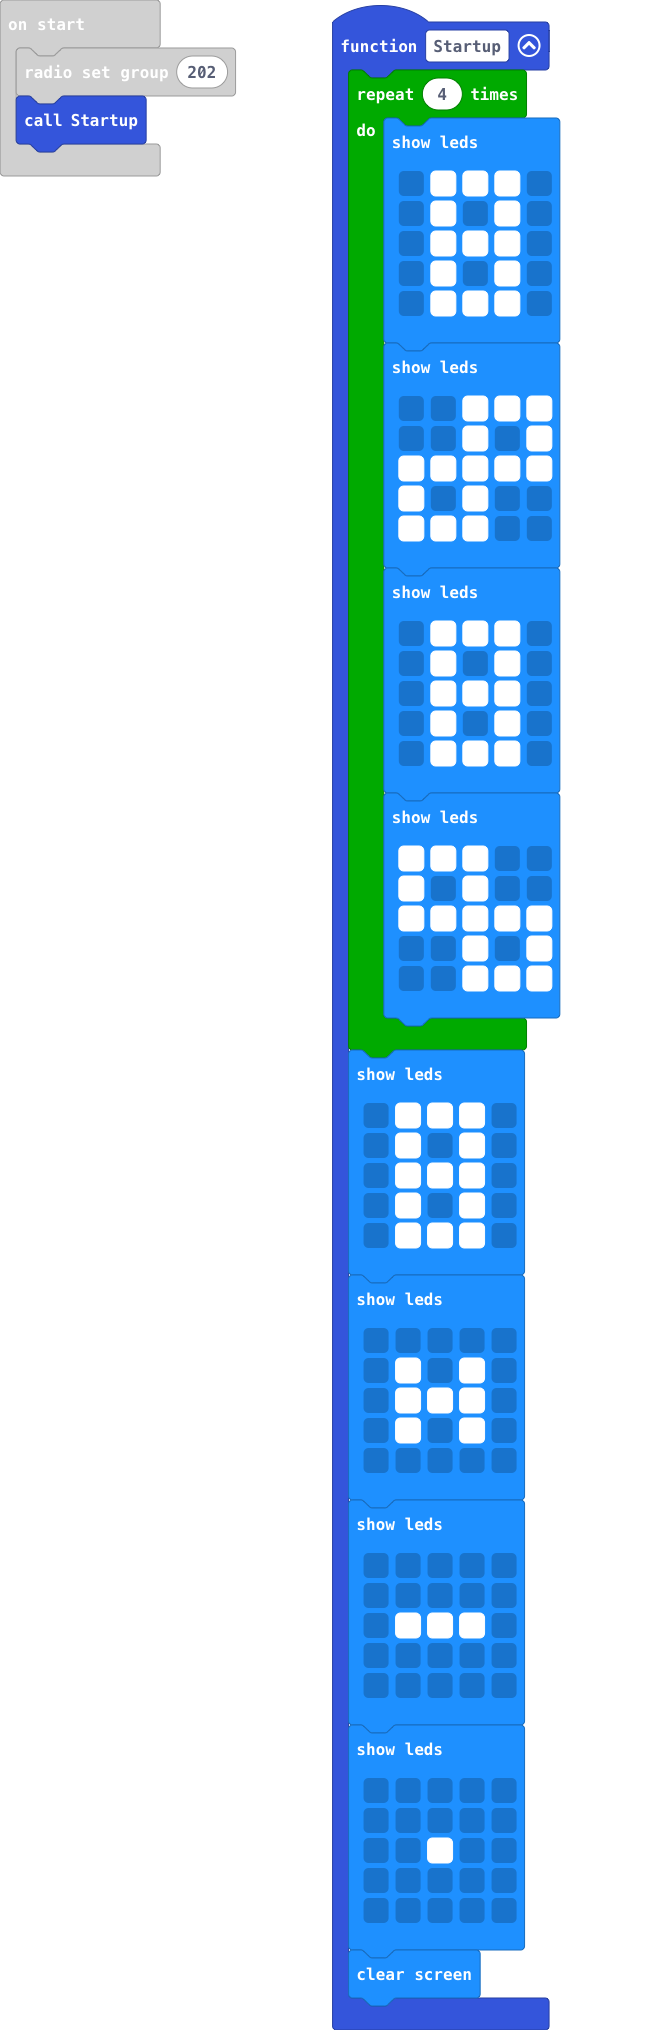
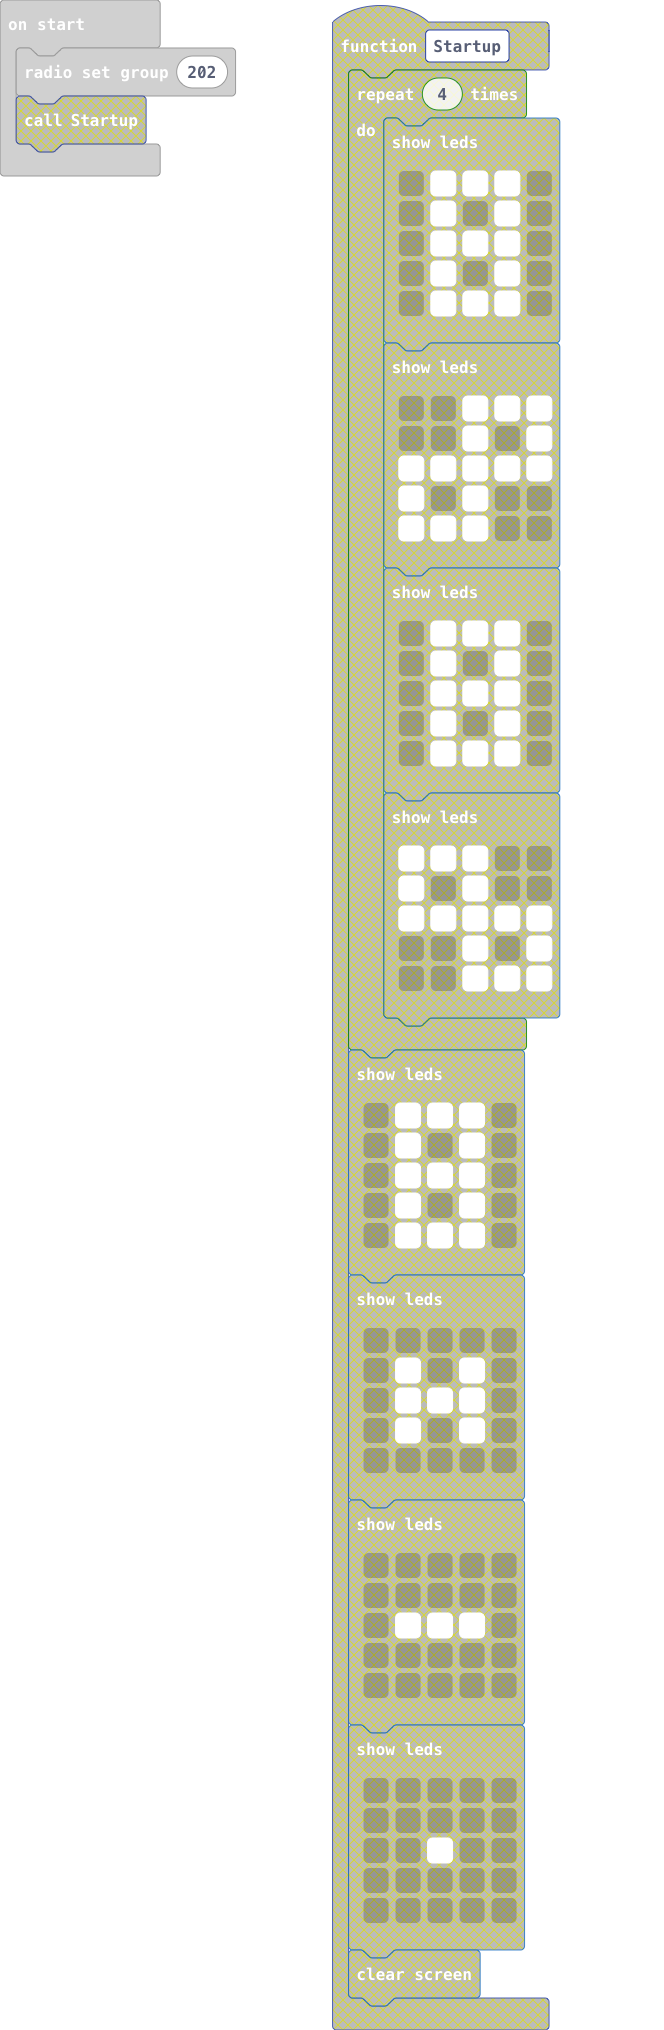
Update main.blocks, main.ts

Changed region(s): [[0.4819, 0.0, 0.8434, 1.0], [0.0301, 0.031, 0.241, 0.0931]]

diff --git a/main.ts b/main.ts
@@ -12,67 +12,6 @@ radio.onReceivedNumber(function (receivedNumber) {
         control.reset()
     }
 })
-function Startup () {
-    for (let index = 0; index < 4; index++) {
-        basic.showLeds(`
-            . # # # .
-            . # . # .
-            . # # # .
-            . # . # .
-            . # # # .
-            `)
-        basic.showLeds(`
-            . . # # #
-            . . # . #
-            # # # # #
-            # . # . .
-            # # # . .
-            `)
-        basic.showLeds(`
-            . # # # .
-            . # . # .
-            . # # # .
-            . # . # .
-            . # # # .
-            `)
-        basic.showLeds(`
-            # # # . .
-            # . # . .
-            # # # # #
-            . . # . #
-            . . # # #
-            `)
-    }
-    basic.showLeds(`
-        . # # # .
-        . # . # .
-        . # # # .
-        . # . # .
-        . # # # .
-        `)
-    basic.showLeds(`
-        . . . . .
-        . # . # .
-        . # # # .
-        . # . # .
-        . . . . .
-        `)
-    basic.showLeds(`
-        . . . . .
-        . . . . .
-        . # # # .
-        . . . . .
-        . . . . .
-        `)
-    basic.showLeds(`
-        . . . . .
-        . . . . .
-        . . # . .
-        . . . . .
-        . . . . .
-        `)
-    basic.clearScreen()
-}
 input.onGesture(Gesture.Shake, function () {
     Dice = randint(1, 8)
     basic.showLeds(`
@@ -137,4 +76,3 @@ input.onGesture(Gesture.Shake, function () {
 })
 let Dice = 0
 radio.setGroup(202)
-Startup()
